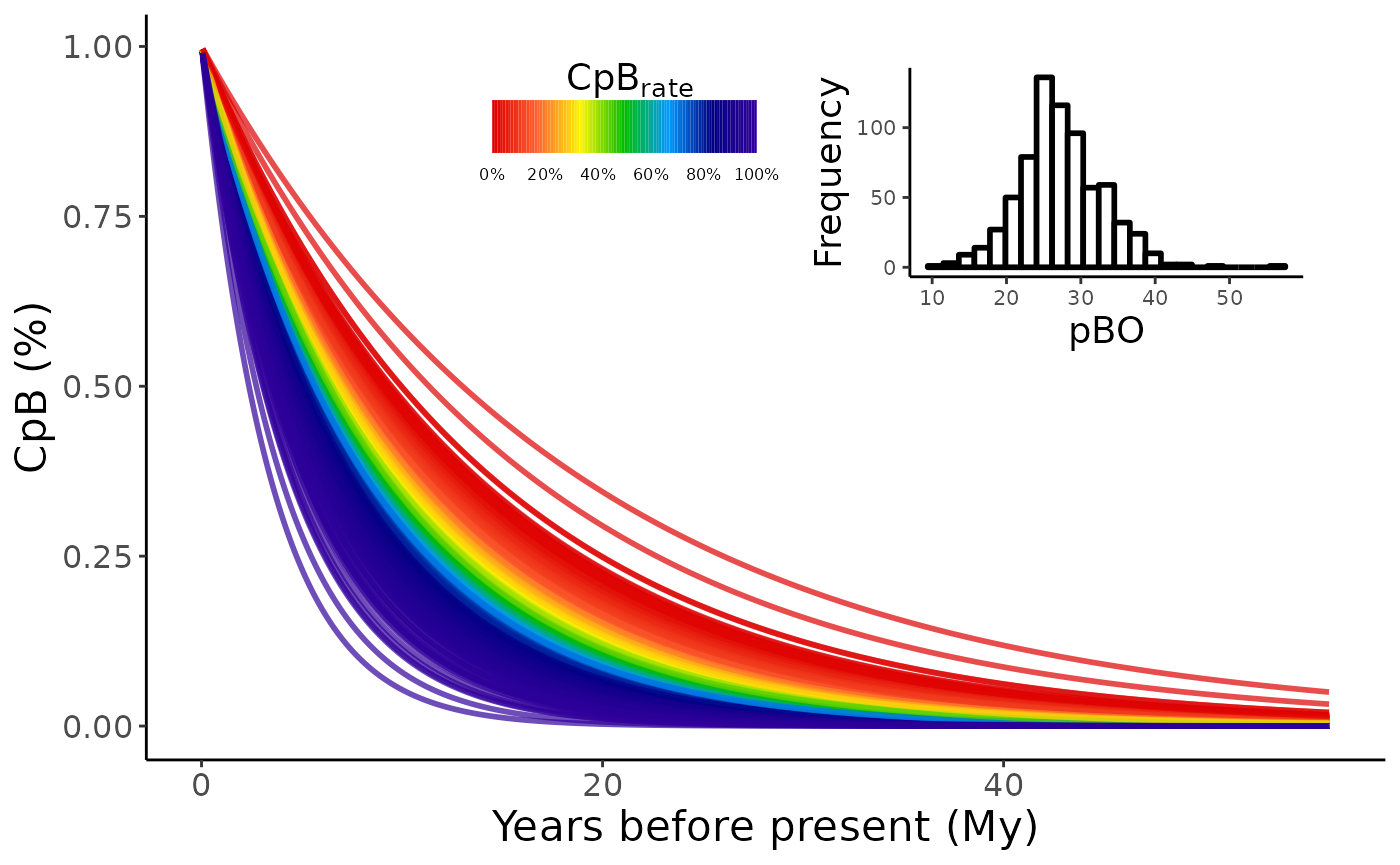
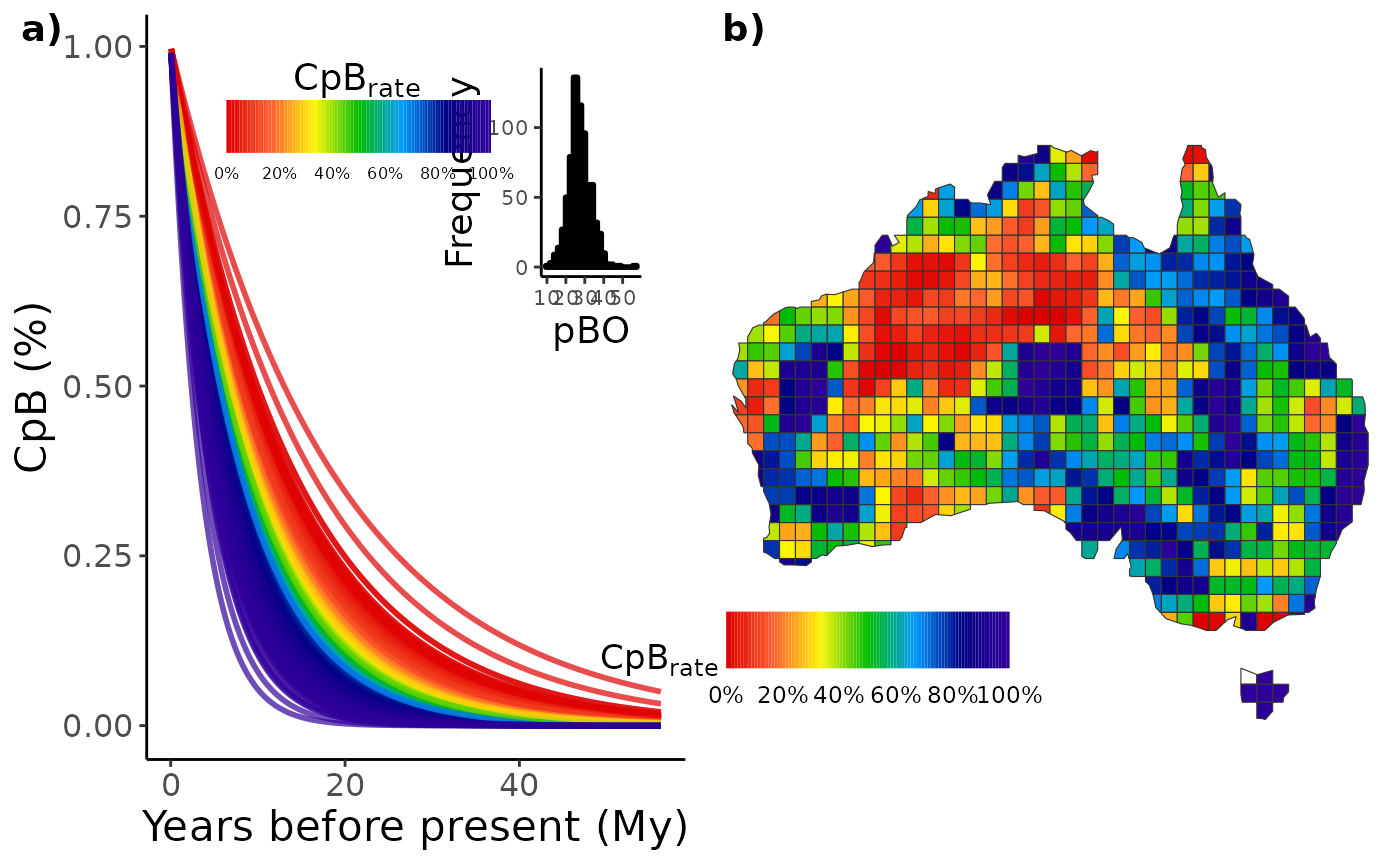
Deploying to gh-pages from @ AraujoMat/treesliceR@3cd3d1fbaf349ee50debe8afa0f1889fa72a382f 🚀

diff --git a/articles/Passeriformes-diversification.html b/articles/Passeriformes-diversification.html
@@ -86,12 +86,18 @@ load the <code>treesliceR</code>, <code>ape</code> and
 <code>ggplot2</code> packages.</p>
 <div class="sourceCode" id="cb1"><pre class="downlit sourceCode r">
 <code class="sourceCode R"><span></span>
-<span><span class="va">libs</span> <span class="op">&lt;-</span> <span class="fu"><a href="https://rdrr.io/r/base/c.html" class="external-link">c</a></span><span class="op">(</span><span class="st">"ape"</span>, <span class="st">"ggplot2"</span><span class="op">)</span></span>
+<span><span class="va">libs</span> <span class="op">&lt;-</span> <span class="fu"><a href="https://rdrr.io/r/base/c.html" class="external-link">c</a></span><span class="op">(</span><span class="st">"ape"</span>, <span class="st">"ggplot2"</span>, <span class="st">"ggpubr"</span><span class="op">)</span></span>
 <span><span class="kw">if</span> <span class="op">(</span><span class="op">!</span><span class="fu"><a href="https://rdrr.io/r/base/ns-load.html" class="external-link">requireNamespace</a></span><span class="op">(</span><span class="va">libs</span>, quietly <span class="op">=</span> <span class="cn">TRUE</span><span class="op">)</span><span class="op">)</span><span class="op">{</span></span>
 <span>    <span class="fu"><a href="https://rdrr.io/r/utils/install.packages.html" class="external-link">install.packages</a></span><span class="op">(</span><span class="va">libs</span><span class="op">)</span></span>
 <span>  <span class="op">}</span></span>
 <span><span class="kw"><a href="https://rdrr.io/r/base/library.html" class="external-link">library</a></span><span class="op">(</span><span class="va"><a href="http://ape-package.ird.fr/" class="external-link">ape</a></span><span class="op">)</span></span>
 <span><span class="kw"><a href="https://rdrr.io/r/base/library.html" class="external-link">library</a></span><span class="op">(</span><span class="va"><a href="https://ggplot2.tidyverse.org" class="external-link">ggplot2</a></span><span class="op">)</span></span>
+<span><span class="kw"><a href="https://rdrr.io/r/base/library.html" class="external-link">library</a></span><span class="op">(</span><span class="va"><a href="https://rpkgs.datanovia.com/ggpubr/" class="external-link">ggpubr</a></span><span class="op">)</span></span>
+<span><span class="co">#&gt; </span></span>
+<span><span class="co">#&gt; Attaching package: 'ggpubr'</span></span>
+<span><span class="co">#&gt; The following object is masked from 'package:ape':</span></span>
+<span><span class="co">#&gt; </span></span>
+<span><span class="co">#&gt;     rotate</span></span>
 <span></span>
 <span><span class="va">libs</span> <span class="op">&lt;-</span> <span class="fu"><a href="https://rdrr.io/r/base/c.html" class="external-link">c</a></span><span class="op">(</span><span class="st">"treesliceR"</span><span class="op">)</span></span>
 <span><span class="kw">if</span> <span class="op">(</span><span class="op">!</span><span class="fu"><a href="https://rdrr.io/r/base/ns-load.html" class="external-link">requireNamespace</a></span><span class="op">(</span><span class="va">libs</span>, quietly <span class="op">=</span> <span class="cn">TRUE</span><span class="op">)</span><span class="op">)</span><span class="op">{</span></span>
@@ -221,28 +227,64 @@ We’ll do only for turnover in order to :</p>
 <span><span class="co">#&gt; &gt; The 1500 number of pieces inputted equals to intervals of 0.0435083898614 million of years.</span></span>
 <span><span class="co">#&gt; &gt; The 1750 number of pieces inputted equals to intervals of 0.0372929055954857 million of years.</span></span>
 <span><span class="co">#&gt; &gt; The 2000 number of pieces inputted equals to intervals of 0.03263129239605 million of years.</span></span></code></pre></div>
+<p>Now we can run the sensitivity analysis and visualize its patterns.
+We’ll do only for turnover in order to :</p>
+<div class="sourceCode" id="cb14"><pre class="downlit sourceCode r">
+<code class="sourceCode R"><span><span class="va">sens_turn</span> <span class="op">&lt;-</span> <span class="fu"><a href="../reference/CpR_sensitivity.html">CpR_sensitivity</a></span><span class="op">(</span>tree <span class="op">=</span> <span class="va">tree</span>, vec <span class="op">=</span> <span class="va">vec</span>, samp <span class="op">=</span> <span class="fl">100</span>,</span>
+<span>                             asb <span class="op">=</span> <span class="va">pass_asb</span>, rate <span class="op">=</span> <span class="st">"CpB"</span>, comp <span class="op">=</span> <span class="st">"turnover"</span><span class="op">)</span></span>
+<span><span class="co">#&gt; &gt; The 250 number of pieces inputted equals to intervals of 0.2610503391684 million of years.</span></span>
+<span><span class="co">#&gt; &gt; The 500 number of pieces inputted equals to intervals of 0.1305251695842 million of years.</span></span>
+<span><span class="co">#&gt; &gt; The 750 number of pieces inputted equals to intervals of 0.0870167797228 million of years.</span></span>
+<span><span class="co">#&gt; &gt; The 1000 number of pieces inputted equals to intervals of 0.0652625847921 million of years.</span></span>
+<span><span class="co">#&gt; &gt; The 1250 number of pieces inputted equals to intervals of 0.05221006783368 million of years.</span></span>
+<span><span class="co">#&gt; &gt; The 1500 number of pieces inputted equals to intervals of 0.0435083898614 million of years.</span></span>
+<span><span class="co">#&gt; &gt; The 1750 number of pieces inputted equals to intervals of 0.0372929055954857 million of years.</span></span>
+<span><span class="co">#&gt; &gt; The 2000 number of pieces inputted equals to intervals of 0.03263129239605 million of years.</span></span>
+<span><span class="va">sens_nest</span> <span class="op">&lt;-</span> <span class="fu"><a href="../reference/CpR_sensitivity.html">CpR_sensitivity</a></span><span class="op">(</span>tree <span class="op">=</span> <span class="va">tree</span>, vec <span class="op">=</span> <span class="va">vec</span>, samp <span class="op">=</span> <span class="fl">100</span>,</span>
+<span>                             asb <span class="op">=</span> <span class="va">pass_asb</span>, rate <span class="op">=</span> <span class="st">"CpB"</span>, comp <span class="op">=</span> <span class="st">"nestedness"</span><span class="op">)</span></span>
+<span><span class="co">#&gt; &gt; The 250 number of pieces inputted equals to intervals of 0.2610503391684 million of years.</span></span>
+<span><span class="co">#&gt; &gt; The 500 number of pieces inputted equals to intervals of 0.1305251695842 million of years.</span></span>
+<span><span class="co">#&gt; &gt; The 750 number of pieces inputted equals to intervals of 0.0870167797228 million of years.</span></span>
+<span><span class="co">#&gt; &gt; The 1000 number of pieces inputted equals to intervals of 0.0652625847921 million of years.</span></span>
+<span><span class="co">#&gt; &gt; The 1250 number of pieces inputted equals to intervals of 0.05221006783368 million of years.</span></span>
+<span><span class="co">#&gt; &gt; The 1500 number of pieces inputted equals to intervals of 0.0435083898614 million of years.</span></span>
+<span><span class="co">#&gt; &gt; The 1750 number of pieces inputted equals to intervals of 0.0372929055954857 million of years.</span></span>
+<span><span class="co">#&gt; &gt; The 2000 number of pieces inputted equals to intervals of 0.03263129239605 million of years.</span></span></code></pre></div>
 <p>So, we can plot our sensitivity analysis for both components using
 the <code>CpR_sensitivity_plot</code> funcion. We use the ggplot syntaxe
 to add a vertical line showing our number of slices set for our
 following analysis:</p>
-<div class="sourceCode" id="cb14"><pre class="downlit sourceCode r">
+<div class="sourceCode" id="cb15"><pre class="downlit sourceCode r">
 <code class="sourceCode R"><span><span class="co"># Store each graph within a respective object</span></span>
-<span><span class="fu"><a href="../reference/CpR_sensitivity_plot.html">CpR_sensitivity_plot</a></span><span class="op">(</span><span class="va">sens_turn</span>, rate <span class="op">=</span> <span class="st">"CpB"</span>, stc <span class="op">=</span> <span class="st">"mean"</span><span class="op">)</span> <span class="op">+</span> </span>
-<span>  <span class="fu"><a href="https://ggplot2.tidyverse.org/reference/geom_abline.html" class="external-link">geom_vline</a></span><span class="op">(</span>xintercept <span class="op">=</span> <span class="fl">1000</span>, linetype<span class="op">=</span><span class="st">"dashed"</span>, color <span class="op">=</span> <span class="st">"black"</span><span class="op">)</span></span></code></pre></div>
-<p><img src="Passeriformes-diversification_files/figure-html/unnamed-chunk-13-1.png" width="700"></p>
+<span><span class="va">turn_sens_plot</span> <span class="op">&lt;-</span> <span class="fu"><a href="../reference/CpR_sensitivity_plot.html">CpR_sensitivity_plot</a></span><span class="op">(</span><span class="va">sens_turn</span>, rate <span class="op">=</span> <span class="st">"CpB"</span>, stc <span class="op">=</span> <span class="st">"mean"</span><span class="op">)</span> <span class="op">+</span> </span>
+<span>  <span class="fu"><a href="https://ggplot2.tidyverse.org/reference/geom_abline.html" class="external-link">geom_vline</a></span><span class="op">(</span>xintercept <span class="op">=</span> <span class="fl">1000</span>, linetype<span class="op">=</span><span class="st">"dashed"</span>, color <span class="op">=</span> <span class="st">"black"</span><span class="op">)</span></span>
+<span><span class="va">nest_sens_plot</span> <span class="op">&lt;-</span> <span class="fu"><a href="../reference/CpR_sensitivity_plot.html">CpR_sensitivity_plot</a></span><span class="op">(</span><span class="va">sens_nest</span>, rate <span class="op">=</span> <span class="st">"CpB"</span>, stc <span class="op">=</span> <span class="st">"mean"</span><span class="op">)</span> <span class="op">+</span> </span>
+<span>  <span class="fu"><a href="https://ggplot2.tidyverse.org/reference/geom_abline.html" class="external-link">geom_vline</a></span><span class="op">(</span>xintercept <span class="op">=</span> <span class="fl">1000</span>, linetype<span class="op">=</span><span class="st">"dashed"</span>, color <span class="op">=</span> <span class="st">"black"</span><span class="op">)</span></span>
+<span><span class="co"># To plot them together</span></span>
+<span><span class="fu"><a href="https://rpkgs.datanovia.com/ggpubr/reference/ggarrange.html" class="external-link">ggarrange</a></span><span class="op">(</span><span class="va">turn_sens_plot</span>, <span class="va">nest_sens_plot</span>,</span>
+<span>                    labels <span class="op">=</span> <span class="fu"><a href="https://rdrr.io/r/base/c.html" class="external-link">c</a></span><span class="op">(</span><span class="st">"a)"</span>, <span class="st">"b)"</span><span class="op">)</span>, ncol <span class="op">=</span> <span class="fl">2</span>, nrow <span class="op">=</span> <span class="fl">1</span><span class="op">)</span></span></code></pre></div>
+<p><img src="Passeriformes-diversification_files/figure-html/unnamed-chunk-14-1.png" width="700"></p>
 <p>Calculating the CpB-rate from the turnover and nestedness components
 under a multisite approach (PS: this can take some minutes):</p>
-<div class="sourceCode" id="cb15"><pre class="downlit sourceCode r">
+<div class="sourceCode" id="cb16"><pre class="downlit sourceCode r">
 <code class="sourceCode R"><span><span class="co"># For turnover component</span></span>
 <span><span class="va">turn</span> <span class="op">&lt;-</span> <span class="fu"><a href="../reference/CpB.html">CpB</a></span><span class="op">(</span>tree <span class="op">=</span> <span class="va">tree</span>, n <span class="op">=</span> <span class="fl">1000</span>, asb <span class="op">=</span> <span class="va">pass_asb</span>, comp <span class="op">=</span> <span class="st">"turnover"</span><span class="op">)</span></span>
+<span><span class="co">#&gt; &gt; The 1000 number of pieces inputted equals to intervals of 0.0652625847921 million of years.</span></span>
+<span><span class="co"># For nestedness component</span></span>
+<span><span class="va">nest</span> <span class="op">&lt;-</span> <span class="fu"><a href="../reference/CpB.html">CpB</a></span><span class="op">(</span>tree <span class="op">=</span> <span class="va">tree</span>, n <span class="op">=</span> <span class="fl">1000</span>, asb <span class="op">=</span> <span class="va">pass_asb</span>, comp <span class="op">=</span> <span class="st">"nestedness"</span><span class="op">)</span></span>
 <span><span class="co">#&gt; &gt; The 1000 number of pieces inputted equals to intervals of 0.0652625847921 million of years.</span></span></code></pre></div>
 <p>Finally, we can plot these CpB through time or map it. To map it, we
 can use our intern <code>AU_grid</code> object that represents the
 Australian grid map. Let’s do it first for the turnover component:
 <img src="Passeriformes-diversification_files/figure-html/ggplot2-1.png" width="700"></p>
-<div class="sourceCode" id="cb16"><pre class="downlit sourceCode r">
-<code class="sourceCode R"><span><span class="fu"><a href="../reference/CpR_graph.html">CpR_graph</a></span><span class="op">(</span>data <span class="op">=</span> <span class="va">turn</span>, rate <span class="op">=</span> <span class="st">"CpB"</span>, qtl <span class="op">=</span> <span class="cn">TRUE</span>, map <span class="op">=</span> <span class="va">AU_grid</span><span class="op">)</span></span></code></pre></div>
-<p><img src="Passeriformes-diversification_files/figure-html/unnamed-chunk-15-1.png" width="700"></p>
+<p>And we can do the same for the nestedness component:</p>
+<div class="sourceCode" id="cb17"><pre class="downlit sourceCode r">
+<code class="sourceCode R"><span><span class="va">nest1</span> <span class="op">&lt;-</span> <span class="fu"><a href="../reference/CpR_graph.html">CpR_graph</a></span><span class="op">(</span>data <span class="op">=</span> <span class="va">nest</span>, rate <span class="op">=</span> <span class="st">"CpB"</span>, qtl <span class="op">=</span> <span class="cn">TRUE</span><span class="op">)</span></span>
+<span><span class="va">nest2</span> <span class="op">&lt;-</span> <span class="fu"><a href="../reference/CpR_graph.html">CpR_graph</a></span><span class="op">(</span>data <span class="op">=</span> <span class="va">nest</span>, rate <span class="op">=</span> <span class="st">"CpB"</span>, qtl <span class="op">=</span> <span class="cn">TRUE</span>, map <span class="op">=</span> <span class="va">AU_grid</span><span class="op">)</span></span>
+<span><span class="co"># To plot them together</span></span>
+<span><span class="fu"><a href="https://rpkgs.datanovia.com/ggpubr/reference/ggarrange.html" class="external-link">ggarrange</a></span><span class="op">(</span><span class="va">nest1</span>, <span class="va">nest2</span>,</span>
+<span>                    labels <span class="op">=</span> <span class="fu"><a href="https://rdrr.io/r/base/c.html" class="external-link">c</a></span><span class="op">(</span><span class="st">"a)"</span>, <span class="st">"b)"</span><span class="op">)</span>, ncol <span class="op">=</span> <span class="fl">2</span>, nrow <span class="op">=</span> <span class="fl">1</span><span class="op">)</span></span></code></pre></div>
+<p><img src="Passeriformes-diversification_files/figure-html/unnamed-chunk-16-1.png" width="700"></p>
 </div>
 </div>
   </main><aside class="col-md-3"><nav id="toc"><h2>On this page</h2>
